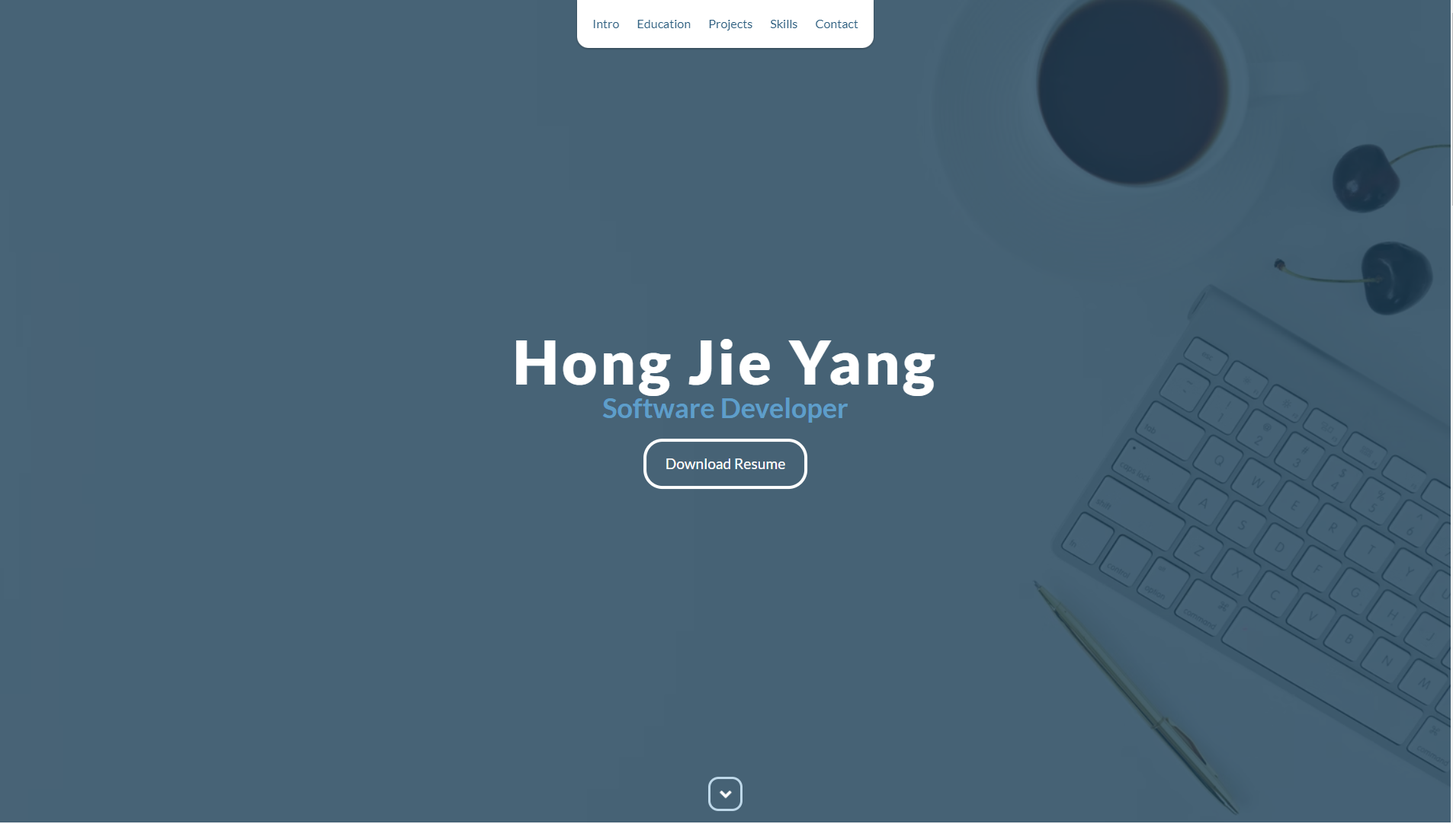
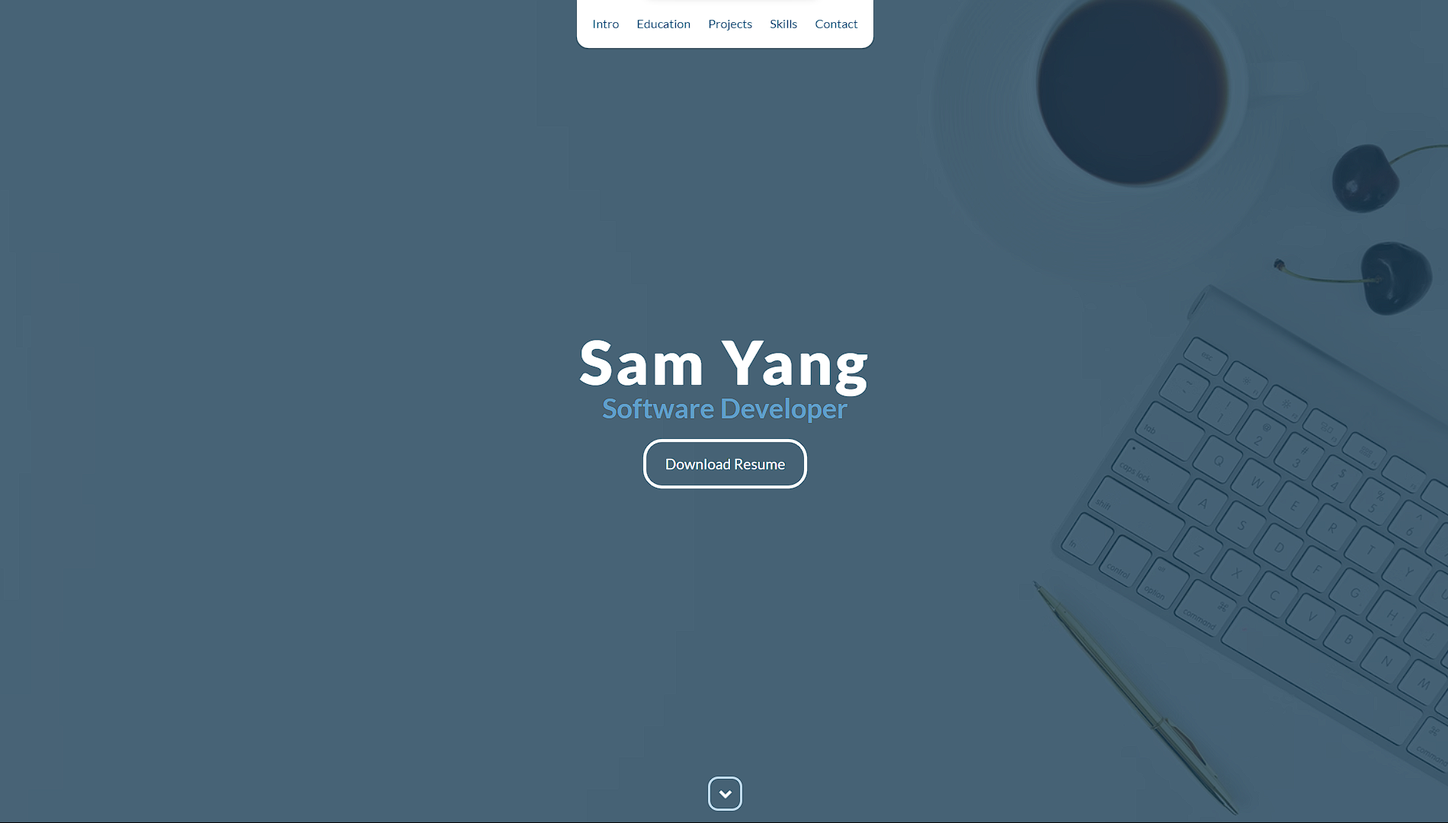
Updated Gallery and Introduction

diff --git a/css/styles.css b/css/styles.css
@@ -1,1 +1,1 @@
-body{font-family:"Lato",sans-serif;font-size:16px}body.active{overflow:hidden;z-index:-1}header{position:absolute;top:0;left:0;right:0;text-align:center;z-index:10}header ul{display:inline-block;background:#fff;text-align:center;padding:10px;margin:0;border-bottom-right-radius:15px;border-bottom-left-radius:15px}header li{display:inline-block}header a{display:block;color:#2a5c7e;padding:10px}header a:hover{color:#1d4058;text-decoration:none;background:#ccc;border-radius:10px}header a:focus{color:#2a5c7e;text-decoration:none}header.clicked{display:block}header.sticky{position:fixed;z-index:999}#mobile-menu-open{display:none;cursor:pointer;position:fixed;right:15px;top:10px;color:#2a5c7e;font-size:1.5em;z-index:20;padding:0 7px;border-radius:4px;background:#fff}#mobile-menu-close{display:none;text-align:right;width:100%;background:#fff;font-size:1.5em;padding-right:15px;padding-top:10px;cursor:pointer;color:#2a5c7e}#mobile-menu-close span{font-size:.5em;text-transform:uppercase}#mobile-menu-close i{vertical-align:middle}footer{padding:50px 0;background-color:#2a5c7e}.copyright{padding-top:20px}.copyright p{margin:0;color:#fff}.top{text-align:center}.top span{cursor:pointer;display:block;margin:0 auto;width:45px;height:45px;border-radius:30%;border:3px solid #b9bfc4;text-align:center}.top i{color:#fff;margin:10px auto}.social{text-align:right}.social ul{margin:5px 0 0 0;padding:0}.social li{display:inline-block;font-size:1.25em;list-style:none}.social a{display:block;color:#fff;padding:10px}.social a:hover{color:#2a5c7e}.btn-rounded-white{display:inline-block;color:#fff;padding:15px 25px;border:4px solid #fff;border-radius:25px;font-size:1.2em;font-weight:400;transition:0.5s ease all}.btn-rounded-white:hover{color:#2a5c7e;background:#fff;text-decoration:none}.shadow{box-shadow:0 1px 3px rgba(0,0,0,.12),0 1px 2px rgba(0,0,0,.24)}.shadow-large{box-shadow:0 3px 6px rgba(0,0,0,.08),0 3px 6px rgba(0,0,0,.15)}.heading{position:relative;display:inline-block;font-size:2em;font-weight:400;margin:0 0 30px 0}.heading:after{position:absolute;content:"";top:100%;height:2px;width:75px;left:0;right:0;margin:0 auto;background:#2a5c7e}.project{background:#f2f2f5}#lead{position:relative;height:100vh;min-height:500px;max-height:1080px;background:url(../images/bg.avif);background-size:cover;overflow:hidden}#lead-content{position:absolute;z-index:10;top:50%;left:50%;transform:translate(-50%, -50%);text-align:center}#lead-content h1,#lead-content h2{margin:0}#lead-content h1{color:#fff;font-weight:900;font-size:5em;letter-spacing:.05em;line-height:.9em}#lead-content h2{color:#5e9ec9;font-weight:700;font-size:2.25em;margin-bottom:15px}#lead-overlay{position:absolute;height:100%;width:100%;top:0;right:0;bottom:0;left:0;background:rgba(29,64,88,.8);z-index:1}@keyframes pulsate{0%{transform:scale(1, 1)}50%{transform:scale(1.2, 1.2)}100%{transform:scale(1, 1)}}#lead-down{position:absolute;left:0;right:0;width:100%;text-align:center;z-index:10;bottom:15px;color:#fff}#lead-down span{cursor:pointer;display:block;margin:0 auto;width:45px;height:45px;border-radius:30%;border:3px solid #bed8e9;text-align:center}#lead-down i{animation:pulsate 1.5s ease;animation-iteration-count:infinite;padding-top:10px}#intro{padding:75px 15px;border-bottom:1px solid #dcd9d9}#intro h2{color:#374054}#intro p{color:#74808a;margin:0}#education{padding:50px 15px 20px 15px;border-bottom:1px solid #dcd9d9;text-align:center;background-color:#f2f2f5}#education h2{color:#374054;margin-bottom:50px}.education-block{max-width:700px;margin:0 auto 30px auto;padding:15px;border:1px solid #dcd9d9;text-align:left;background-color:#fff}.education-block h3{font-weight:500;float:left;margin:0;color:#374054}.education-block span{color:#74808a;float:right}.education-block h4{color:#74808a;clear:both;font-weight:500;margin:0 0 15px 0}.education-block p,.education-block ul{margin:0;color:#74808a;font-size:.9em}.education-block ul{padding:0 0 0 15px}.row>.column{padding:0 8px}.row:after{content:"";display:table;clear:both}.modal{display:none;position:fixed;z-index:1;padding-top:100px;left:0;top:0;width:100%;height:100%;overflow:auto;background-color:rgba(0,0,0,.925)}.modal-content{position:relative;background-color:#fefefe;margin:auto;padding:0;width:90%;max-width:52vw}.close{color:#fff;position:absolute;top:10px;right:25px;font-size:35px;font-weight:bold}.close:hover,.close:focus{color:#999;text-decoration:none;cursor:pointer}.mySlides{display:none}.prev,.next{cursor:pointer;position:absolute;top:50%;width:auto;padding:16px;margin-top:-50px;color:#fff;font-weight:bold;font-size:20px;transition:.6s ease;border-radius:0 3px 3px 0;user-select:none;-webkit-user-select:none}.next{right:0;border-radius:3px 0 0 3px}.prev:hover,.next:hover{background-color:rgba(0,0,0,.8)}.numbertext{color:#f2f2f2;font-size:12px;padding:8px 12px;position:absolute;top:0}.caption-container{text-align:center;background-color:#000;padding:2px 16px;color:#fff}img.demo{opacity:.6}.active,.demo:hover{opacity:1}img.hover-shadow{transition:.3s}.hover-shadow:hover{box-shadow:0 4px 8px 0 rgba(0,0,0,.2),0 6px 20px 0 rgba(0,0,0,.19)}.thumb2{object-fit:contain;background-color:#212529}.thumb3{object-fit:contain;background-color:rgba(207,207,207,.76)}.thumb4{object-fit:contain;background-color:#f5f5f5}#thumbnailSlides1{display:none}#thumbnailSlides1 .column{float:left;width:25%}#thumbnailSlides1 .demo{max-width:100%}#thumbnailSlides2{display:none}#thumbnailSlides2 .column{float:left;width:33.33%}#thumbnailSlides2 .demo{max-width:100%}#thumbnailSlides3{display:none}#thumbnailSlides3 .column{float:left;width:33.33%}#thumbnailSlides3 .demo{max-width:100%}#thumbnailSlides4{display:none}#thumbnailSlides4 .demo{max-width:100%}#thumbnailSlides4 .column{float:left;width:33.33%}#projects{padding:50px 15px;border-bottom:1px solid #dcd9d9;text-align:center}#projects h2{color:#374054;margin-bottom:50px}.project{position:relative;max-width:1500px;margin:0 auto 30px auto;overflow:hidden;background:#fff;border-radius:4px}.project ul{display:block;margin:10px auto;padding:0;max-width:1500px}.project li{display:inline-block;margin:0px 1px;padding:5px 10px;color:#374054;background:#e4e4ea;list-style:none;cursor:default;font-size:1em}.project-image{float:left}.project-image:hover{animation:pulse 1s infinite;animation-timing-function:linear}@keyframes pulse{0%{transform:scale(1)}50%{transform:scale(1.02)}100%{transform:scale(1)}}.project-info{position:absolute;top:50%;transform:translateY(-50%);margin-left:500px;padding:15px;overflow:auto;max-height:100%}.project-info h3{font-size:1.5em;font-weight:500;color:#374054;margin:0 0 0 0}.project-info p{color:#74808a;margin:0 0 15px 0;font-size:.9em}.no-image .project-info{position:relative;margin:0;padding:30px 15px;transform:none}#more-projects{display:none}#skills{padding:50px 15px;text-align:center;background-color:#f2f2f5}#skills h2{color:#374054;margin-bottom:50px}#skills ul{display:block;margin:0 auto;padding:0;max-width:800px}#skills li{display:inline-block;margin:7px;padding:5px 10px;color:#374054;background:#e4e4ea;list-style:none;cursor:default;font-size:1.2em}#contact{padding:50px 15px;background:rgba(29,64,88,.8);text-align:center}#contact h2{margin:0 0 15px 0;color:#fff;font-weight:500}#contact-form{max-width:500px;margin:0 auto}#contact-form input,#contact-form textarea{display:block;width:100%;padding:10px;border-radius:4px;border:none;margin-bottom:10px;background:#173245;color:#fff;transition:0.5s ease all}#contact-form input::-webkit-input-placeholder,#contact-form textarea::-webkit-input-placeholder{color:#fff}#contact-form input:-moz-placeholder,#contact-form textarea:-moz-placeholder{color:#fff;opacity:1}#contact-form input::-moz-placeholder,#contact-form textarea::-moz-placeholder{color:#fff;opacity:1}#contact-form input:-ms-input-placeholder,#contact-form textarea:-ms-input-placeholder{color:#fff}#contact-form input:focus,#contact-form textarea:focus{outline:none;background:#0a161e}#contact-form textarea{height:150px;resize:none}#contact-form button{display:block;width:100%;background:#fff;border-radius:4px;padding:5px 10px;border:none;color:#2a5c7e;font-weight:700;box-shadow:0 1px 3px rgba(0,0,0,.12),0 1px 2px rgba(0,0,0,.24);transition:0.5s ease all}#contact-form button:hover{box-shadow:0 10px 20px rgba(0,0,0,.19),0 6px 6px rgba(0,0,0,.23)}@media only screen and (max-width: 992px){#lead{height:auto;min-height:auto;max-height:auto;padding:100px 15px}#lead-content{position:relative;transform:none;left:auto;top:auto}#lead-content h1{font-size:3em}#lead-content h2{font-size:1.75em}#about{text-align:center}#about p{text-align:left}}@media only screen and (max-width: 768px){header{position:fixed;display:none;z-index:999;animation:none;bottom:0;height:100%}#mobile-menu-open,#mobile-menu-close{display:block}#menu{height:100%;overflow-y:auto;box-shadow:none;border-radius:0;width:100%}#menu li{display:block;margin-bottom:10px}#lead-content h1{font-size:2em}#lead-content h2{font-size:1.3em}#lead-content a{padding:10px 20px}#lead-down{display:none}.education-block h3,.education-block span{float:none}.project-image{display:none}.project-info{position:relative;margin:0;padding:30px 15px;top:auto;transform:none}footer{text-align:center}.social{text-align:center}}@media only screen and (max-width: 480px){#lead-content h1{font-size:1.5em}#lead-content h2{font-size:1em}#lead-content a{font-size:.9em;padding:5px 10px}}
+body{font-family:"Lato",sans-serif;font-size:16px}body.active{overflow:hidden;z-index:-1}header{position:absolute;top:0;left:0;right:0;text-align:center;z-index:10}header ul{display:inline-block;background:#fff;text-align:center;padding:10px;margin:0;border-bottom-right-radius:15px;border-bottom-left-radius:15px}header li{display:inline-block}header a{display:block;color:#2a5c7e;padding:10px}header a:hover{color:#1d4058;text-decoration:none;background:#ccc;border-radius:10px}header a:focus{color:#2a5c7e;text-decoration:none}header.clicked{display:block}header.sticky{position:fixed;z-index:999}#mobile-menu-open{display:none;cursor:pointer;position:fixed;right:15px;top:10px;color:#2a5c7e;font-size:1.5em;z-index:20;padding:0 7px;border-radius:4px;background:#fff}#mobile-menu-close{display:none;text-align:right;width:100%;background:#fff;font-size:1.5em;padding-right:15px;padding-top:10px;cursor:pointer;color:#2a5c7e}#mobile-menu-close span{font-size:.5em;text-transform:uppercase}#mobile-menu-close i{vertical-align:middle}footer{padding:50px 0;background-color:#2a5c7e}.copyright{padding-top:20px}.copyright p{margin:0;color:#fff}.top{text-align:center}.top span{cursor:pointer;display:block;margin:0 auto;width:45px;height:45px;border-radius:30%;border:3px solid #b9bfc4;text-align:center}.top i{color:#fff;margin:10px auto}.social{text-align:right}.social ul{margin:5px 0 0 0;padding:0}.social li{display:inline-block;font-size:1.25em;list-style:none}.social a{display:block;color:#fff;padding:10px}.social a:hover{color:#2a5c7e}.btn-rounded-white{display:inline-block;color:#fff;padding:15px 25px;border:4px solid #fff;border-radius:25px;font-size:1.2em;font-weight:400;transition:0.5s ease all}.btn-rounded-white:hover{color:#2a5c7e;background:#fff;text-decoration:none}.shadow{box-shadow:0 1px 3px rgba(0,0,0,.12),0 1px 2px rgba(0,0,0,.24)}.shadow-large{box-shadow:0 3px 6px rgba(0,0,0,.08),0 3px 6px rgba(0,0,0,.15)}.heading{position:relative;display:inline-block;font-size:2em;font-weight:400;margin:0 0 30px 0}.heading:after{position:absolute;content:"";top:100%;height:2px;width:75px;left:0;right:0;margin:0 auto;background:#2a5c7e}.project{background:#f2f2f5}#lead{position:relative;height:100vh;min-height:500px;max-height:1080px;background:url(../images/bg.avif);background-size:cover;overflow:hidden}#lead-content{position:absolute;z-index:10;top:50%;left:50%;transform:translate(-50%, -50%);text-align:center}#lead-content h1,#lead-content h2{margin:0}#lead-content h1{color:#fff;font-weight:900;font-size:5em;letter-spacing:.05em;line-height:.9em}#lead-content h2{color:#5e9ec9;font-weight:700;font-size:2.25em;margin-bottom:15px}#lead-overlay{position:absolute;height:100%;width:100%;top:0;right:0;bottom:0;left:0;background:rgba(29,64,88,.8);z-index:1}@keyframes pulsate{0%{transform:scale(1, 1)}50%{transform:scale(1.2, 1.2)}100%{transform:scale(1, 1)}}#lead-down{position:absolute;left:0;right:0;width:100%;text-align:center;z-index:10;bottom:15px;color:#fff}#lead-down span{cursor:pointer;display:block;margin:0 auto;width:45px;height:45px;border-radius:30%;border:3px solid #bed8e9;text-align:center}#lead-down i{animation:pulsate 1.5s ease;animation-iteration-count:infinite;padding-top:10px}#intro{padding:75px 15px;border-bottom:1px solid #dcd9d9}#intro h2{color:#374054}#intro p{color:#74808a;margin:0}#education{padding:50px 15px 20px 15px;border-bottom:1px solid #dcd9d9;text-align:center;background-color:#f2f2f5}#education h2{color:#374054;margin-bottom:50px}.education-block{max-width:700px;margin:0 auto 30px auto;padding:15px;border:1px solid #dcd9d9;text-align:left;background-color:#fff}.education-block h3{font-weight:500;float:left;margin:0;color:#374054}.education-block span{color:#74808a;float:right}.education-block h4{color:#74808a;clear:both;font-weight:500;margin:0 0 15px 0}.education-block p,.education-block ul{margin:0;color:#74808a;font-size:.9em}.education-block ul{padding:0 0 0 15px}.row>.column{padding:0 8px}.row:after{content:"";display:table;clear:both}.modal{display:none;position:fixed;z-index:1;left:0;top:0;width:100%;height:100%;overflow:auto;background-color:rgba(0,0,0,.925);align-items:center;justify-content:center}.modal-content{position:relative;background-color:#fefefe;margin:auto;padding:0;width:90%;max-width:52vw}.close{color:#fff;position:absolute;top:10px;right:25px;font-size:35px;font-weight:bold}.close:hover,.close:focus{color:#999;text-decoration:none;cursor:pointer}.mySlides{display:none}.prev,.next{cursor:pointer;position:absolute;top:50%;width:auto;padding:16px;margin-top:-50px;color:#fff;font-weight:bold;font-size:20px;transition:.6s ease;border-radius:0 3px 3px 0;user-select:none;-webkit-user-select:none}.next{right:0;border-radius:3px 0 0 3px}.prev:hover,.next:hover{background-color:rgba(0,0,0,.8)}.numbertext{color:#f2f2f2;font-size:12px;padding:8px 12px;position:absolute;top:0}.caption-container{text-align:center;background-color:#000;padding:2px 16px;color:#fff}img.demo{opacity:.8}.active,.demo:hover{opacity:1}img.hover-shadow{transition:.3s}.hover-shadow:hover{box-shadow:0 4px 8px 0 rgba(0,0,0,.2),0 6px 20px 0 rgba(0,0,0,.19)}.thumb2{object-fit:contain;background-color:#212529}.thumb3{object-fit:contain;background-color:rgba(207,207,207,.76)}.thumb4{object-fit:contain;background-color:#f5f5f5}.thumb5{object-fit:contain;background-color:#0d1b2a}#thumbnailSlides1{display:none}#thumbnailSlides1 .column{float:left;width:25%}#thumbnailSlides1 .demo{max-width:100%}#thumbnailSlides2{display:none}#thumbnailSlides2 .column{float:left;width:33.33%}#thumbnailSlides2 .demo{max-width:100%}#thumbnailSlides3{display:none}#thumbnailSlides3 .column{float:left;width:33.33%}#thumbnailSlides3 .demo{max-width:100%}#thumbnailSlides5{display:none}#thumbnailSlides5 .demo{max-width:100%}#thumbnailSlides5 .column{float:left;width:25%;object-fit:contain}#projects{padding:50px 15px;border-bottom:1px solid #dcd9d9;text-align:center}#projects h2{color:#374054;margin-bottom:50px}.project{position:relative;max-width:1500px;margin:0 auto 30px auto;overflow:hidden;background:#fff;border-radius:4px}.project ul{display:block;margin:10px auto;padding:0;max-width:1500px}.project li{display:inline-block;margin:0px 1px;padding:5px 10px;color:#374054;background:#e4e4ea;list-style:none;cursor:default;font-size:1em}.project-image{float:left}.project-image:hover{animation:pulse 1s infinite;animation-timing-function:linear}@keyframes pulse{0%{transform:scale(1)}50%{transform:scale(1.02)}100%{transform:scale(1)}}.project-info{position:absolute;top:50%;transform:translateY(-50%);margin-left:500px;padding:15px;overflow:auto;max-height:100%}.project-info h3{font-size:1.5em;font-weight:500;color:#374054;margin:0 0 0 0}.project-info p{color:#74808a;margin:0 0 15px 0;font-size:.9em}.no-image .project-info{position:relative;margin:0;padding:30px 15px;transform:none}#more-projects{display:none}#skills{padding:50px 15px;text-align:center;background-color:#f2f2f5}#skills h2{color:#374054;margin-bottom:50px}#skills ul{display:block;margin:0 auto;padding:0;max-width:800px}#skills li{display:inline-block;margin:7px;padding:5px 10px;color:#374054;background:#e4e4ea;list-style:none;cursor:default;font-size:1.2em}#contact{padding:50px 15px;background:rgba(29,64,88,.8);text-align:center}#contact h2{margin:0 0 15px 0;color:#fff;font-weight:500}#contact-form{max-width:500px;margin:0 auto}#contact-form input,#contact-form textarea{display:block;width:100%;padding:10px;border-radius:4px;border:none;margin-bottom:10px;background:#173245;color:#fff;transition:0.5s ease all}#contact-form input::-webkit-input-placeholder,#contact-form textarea::-webkit-input-placeholder{color:#fff}#contact-form input:-moz-placeholder,#contact-form textarea:-moz-placeholder{color:#fff;opacity:1}#contact-form input::-moz-placeholder,#contact-form textarea::-moz-placeholder{color:#fff;opacity:1}#contact-form input:-ms-input-placeholder,#contact-form textarea:-ms-input-placeholder{color:#fff}#contact-form input:focus,#contact-form textarea:focus{outline:none;background:#0a161e}#contact-form textarea{height:150px;resize:none}#contact-form button{display:block;width:100%;background:#fff;border-radius:4px;padding:5px 10px;border:none;color:#2a5c7e;font-weight:700;box-shadow:0 1px 3px rgba(0,0,0,.12),0 1px 2px rgba(0,0,0,.24);transition:0.5s ease all}#contact-form button:hover{box-shadow:0 10px 20px rgba(0,0,0,.19),0 6px 6px rgba(0,0,0,.23)}@media only screen and (max-width: 992px){#lead{height:auto;min-height:auto;max-height:auto;padding:100px 15px}#lead-content{position:relative;transform:none;left:auto;top:auto}#lead-content h1{font-size:3em}#lead-content h2{font-size:1.75em}#about{text-align:center}#about p{text-align:left}}@media only screen and (max-width: 768px){header{position:fixed;display:none;z-index:999;animation:none;bottom:0;height:100%}#mobile-menu-open,#mobile-menu-close{display:block}#menu{height:100%;overflow-y:auto;box-shadow:none;border-radius:0;width:100%}#menu li{display:block;margin-bottom:10px}#lead-content h1{font-size:2em}#lead-content h2{font-size:1.3em}#lead-content a{padding:10px 20px}#lead-down{display:none}.education-block h3,.education-block span{float:none}.project-image{display:none}.project-info{position:relative;margin:0;padding:30px 15px;top:auto;transform:none}footer{text-align:center}.social{text-align:center}}@media only screen and (max-width: 480px){#lead-content h1{font-size:1.5em}#lead-content h2{font-size:1em}#lead-content a{font-size:.9em;padding:5px 10px}}

diff --git a/index.html b/index.html
@@ -76,17 +76,17 @@
                     </div>
                     <div class="col-md-8">
                         <p>
-                            Welcome to my website portfolio. I'm a graduate who has applied knowledge
-                            gained from my education into practical projects showcased via this website.
+                            Welcome to my website portfolio. I am current seeking CO-OP opportunties for
+                            2024 Summer.  Below you can see a couple of my projects I've made in a gallery.
                             
                             <br></br>
-                            My main programming language of choice is Python. 
-                            I have familarized myself with CSS, HTML,
-                            Javascript for designing front-end applications. Finally, I am proficient in data extraction,
-                            modelling and classification, especially for the development of machine learning models. 
+                            I am currently focusing on being a full stack developer, with a focus on ReactJS front-end
+                            and a combination of Javascript, ExpressJS and SQL and NoSQL databases for the back-end. Other 
+                            programming languages that I am familar with include Python, MATLAB, and a bit of C# (.NET) and Java. 
 
                             <br></br>
-                            If you have any inquries you can contact me at <b>HongJYang9403@gmail.com</b> or use the contact form below.
+                            If you have any inquries you can contact me at <b>y2896899063@gmail.com</b> or <b>syang5045@conestogac.on.ca</b> 
+                            directly or use the contact form below.
                         </p>
                     </div>
                 </div>
@@ -97,6 +97,19 @@
         <!-- Education Section -->
         <div id="education">
             <h2 class="heading">Education</h2>
+            <div class="education-block">
+                <h3><b>Conestoga College</b></h3>
+                <span class="education-date">2023 - Present</span>
+                <h4><b>Computer Application Developer (4.0 GPA)</b></h4>
+                <h4><b>Relevant Coursework</b></h4>
+                <ul>
+                    <li>Agile Development Course (A+)</li>
+                    <li>Javascript, jQuery with MongoDB (A+)</li>
+                    <li>Database with SQL (A+)</li>
+                    <li>HTML CSS Frontend Design (A+)</li>
+                </ul>
+            </div>
+
             <div class="education-block">
                 <h3><b>McMaster University</b></h3>
                 <span class="education-date">2016 - 2021</span>
@@ -109,6 +122,7 @@
                 </ul>
             </div>
         </div>
+        
         <!-- End of Education Section -->
         
         <!-- Lightbox Gallery -->
@@ -174,6 +188,28 @@
                     </div>
                 </div>
 
+                <div id="gallery5">
+                    <div class="mySlides">
+                        <div class="numbertext">1 / 4</div>
+                        <img src="images/gallery5/image1.png" style="width:100%">
+                    </div>
+
+                    <div class="mySlides">
+                        <div class="numbertext">2 / 4</div>
+                        <img src="images/gallery5/image2.png" style="width:100%">
+                    </div>
+
+                    <div class="mySlides">
+                        <div class="numbertext">3 / 4</div>
+                        <img src="images/gallery5/image3.png" style="width:100%">
+                    </div>
+
+                    <div class="mySlides">
+                        <div class="numbertext">4 / 4</div>
+                        <img src="images/gallery5/image4.png" style="width:100%">
+                    </div>
+                </div>
+
                 <!-- Next / Previous Controls -->
                 <a class="prev" onclick="plusSlides(-1)">&#10094;</a>
                 <a class="next" onclick="plusSlides(1)">&#10095;</a>
@@ -182,7 +218,8 @@
                 <div class="caption-container">
                     <p id="caption"></p>
                 </div>
-    
+
+
                 <!-- Thumbnail Controls Project 1 -->
                 <div id="thumbnailSlides1" class="thumbnails">
                     <div class="column">
@@ -231,6 +268,25 @@
                         <img class="demo" src="images/gallery3/processed_data.png" onclick="currentSlide(3)" alt="Processed Data of SCG and ECG Waveform">
                     </div>
                 </div>
+
+                <!-- Thumbnail Controls Project 5 -->
+                <div id="thumbnailSlides5" class="thumbnails">
+                    <div class="column">
+                        <img class="demo" src="images/gallery5/image1.png" onclick="currentSlide(1)" alt="Brick Veneer Gallery">
+                    </div>
+
+                    <div class="column">
+                        <img class="demo" src="images/gallery5/image2.png" onclick="currentSlide(2)" alt="Website Logo">
+                    </div>
+
+                    <div class="column">
+                        <img class="demo" src="images/gallery5/image3.png" onclick="currentSlide(3)" alt="Brick Veneer Selector Lightbox">
+                    </div>
+
+                    <div class="column">
+                        <img class="demo" src="images/gallery5/image4.png" onclick="currentSlide(4)" alt="Website Checkout Page">
+                    </div>
+                </div>
             </div>
         </div>
         <!-- End of Lighbox Gallery -->
@@ -240,6 +296,32 @@
             <h2 class="heading">Projects</h2>
             <div class="container">
                 <div class="row">
+                    <div class="project shadow-large">
+
+                        <!-- Image -->
+                        <div class="project-image">
+                            <img src="images/gallery5/image1.png" width="480" height="360" class="thumb5" onclick="openModal(5)"/>
+                        </div>
+
+                        <!-- Project Information -->
+                        <div class="project-info">
+                            <h3>3Y Brick Veneer Site</h3>
+                            <ul>
+                                <li>ReactJS</li>
+                                <li>MongoDB</li>
+                                <li>ExpressJS</li>
+                                <li>HTML</li>
+                                <li>CSS</li>
+                            </ul>
+                            <p>
+                                This application is a full-stack website used to help sell my family's brick veneer. It was made using ReactJS front-end
+                                and MongoDB and Express backend. The frontend, the backend, and database server are all hosted online. The stock and 
+                                quotes for orders are sent to and retrieved from the database. 
+                            </p>
+                            <a href="https://github.com/Samyuul/3Y-Brick-Veneer-Site" target="_blank">View Source Code</a>
+                        </div>
+                    </div>
+
                     <div class="project shadow-large">
 
                         <!-- Image -->
@@ -257,7 +339,7 @@
                             </ul>
                             <p>
                                 This application is a real-time webcam predictor for age, gender, and emotions. It leverages existing neural network architecture Vgg16 to 
-                                achieve accuracies of 78.77% (96.01% one off accuracy) for age, 94.85% for gender, and 64.44% for emotions.
+                                achieve accuracies of 78.77% (96.01% one off accuracy) for age, 94.85% for gender, and 64.44% for emotions. (Documentation Available)
                             </p>
                             <a href="https://github.com/HongJieYang/AgeGenderEmotionDetector" target="_blank">View Source Code</a>
                         </div>
@@ -283,6 +365,7 @@
                             <p>
                                 This application scrapes the frontpage of CBC, The Guardian, NBS, and CBS for articles. It then provides a summary of the article using an 
                                 extractive algorithm alongside a list of corresponding keywords. Furthermore, you can filter the articles based on 5 different categories.
+                                (Documentation Available)
                             </p>
                             <a href="https://github.com/HongJieYang/ArticleSummarizerApplication" target="_blank">View Source Code</a>
                         </div>
@@ -343,17 +426,22 @@
         <div id="skills">
             <h2 class="heading">Skills</h2>
             <ul>
+                <li>ReactJS</li>
                 <li>JavaScript</li>
-                <li>Java</li>
                 <li>Embedded C</li>
                 <li>MATLAB</li>
                 <li>MySQL</li>
+                <li>MongoDB</li>
                 <li>Python</li>
                 <li>jQuery</li>
                 <li>OpenCV</li>
                 <li>Keras</li>
                 <li>Dash Plotly</li> 
                 <li>Beautiful Soup</li>
+                <li>Java</li>
+                <li>Office</li>
+                <li>C#</li>
+                <li>.NET</li>
             </ul>
         </div>
         <!-- End of Skills Section -->
@@ -389,10 +477,10 @@
                     <div class="col-sm-5 social">
                         <ul>
                             <li>
-                                <a href="https://github.com/HongJieYang" target="_blank"><i class="fa fa-github" aria-hidden="true"></i></a>
+                                <a href="https://github.com/Samyuul/" target="_blank"><i class="fa fa-github" aria-hidden="true"></i></a>
                             </li>
                             <li>
-                                <a href="https://linkedin.com/in/HongJYang940f" target="_blank"><i class="fa fa-linkedin" aria-hidden="true"></i></a>
+                                <a href="https://www.linkedin.com/in/samyang9063/" target="_blank"><i class="fa fa-linkedin" aria-hidden="true"></i></a>
                             </li>
                         </ul>
                     </div>

diff --git a/js/scripts.min.js b/js/scripts.min.js
@@ -1,1 +1,1 @@
-var slideIndex=1,projectSelect=0,viewWidths=["42vw","52vw","45vw","50vw"];function openModal(e){slideIndex=1,document.getElementById("myModal").style.display="block",document.getElementById("nav-header").style.zIndex=-10;var t="thumbnailSlides"+(projectSelect=e).toString();document.getElementById(t).style.display="inline",document.body.style.overflow="hidden",document.getElementsByClassName("modal-content")[0].style.maxWidth=viewWidths[e-1],showSlides(slideIndex)}function closeModal(){document.getElementById("myModal").style.display="none",document.getElementById("nav-header").style.zIndex=10;var e="thumbnailSlides"+projectSelect.toString();document.getElementById(e).style.display="none";var t="gallery"+projectSelect.toString(),l=document.getElementById(t).getElementsByClassName("mySlides");for(i=0;i<l.length;i++)l[i].style.display="none";document.body.style.overflow="visible"}function plusSlides(e){showSlides(slideIndex+=e)}function currentSlide(e){showSlides(slideIndex=e)}function showSlides(e){var t,l="gallery"+projectSelect.toString(),n=document.getElementById(l).getElementsByClassName("mySlides"),d="thumbnailSlides"+projectSelect.toString(),o=document.getElementById(d).getElementsByClassName("demo"),s=document.getElementById("caption");for(e>n.length&&(slideIndex=1),e<1&&(slideIndex=n.length),t=0;t<n.length;t++)n[t].style.display="none";for(t=0;t<o.length;t++)o[t].className=o[t].className.replace(" active","");n[slideIndex-1].style.display="block",o[slideIndex-1].className+=" active",s.innerHTML=o[slideIndex-1].alt}!function(n){n("html").removeClass("no-js"),n("#current-year").text((new Date).getFullYear()),n("header a").click(function(e){e.preventDefault();var t=n(this).attr("href"),l=n(t).offset().top-50;n("html, body").animate({scrollTop:l+"px"},Math.abs(l/1.5)),n("header").hasClass("clicked")&&n("header, body").removeClass("clicked")}),n("#to-top").click(function(){n("html, body").animate({scrollTop:0},Math.abs(window.pageYOffset))}),n("#lead-down span").click(function(){var e=n("#lead").next().offset().top;n("html, body").animate({scrollTop:e+"px"},300)}),n("#mobile-menu-open").click(function(){n("header, body").addClass("clicked")}),n("#mobile-menu-close").click(function(){n("header, body").removeClass("clicked")})}(jQuery);
+var slideIndex=1,projectSelect=0,viewWidths=["42vw","52vw","45vw",0,"52vw"];function openModal(e){slideIndex=1,document.getElementById("myModal").style.display="flex",document.getElementById("nav-header").style.zIndex=-10;var t="thumbnailSlides"+(projectSelect=e).toString();document.getElementById(t).style.display="inline",document.body.style.overflow="hidden",document.getElementsByClassName("modal-content")[0].style.maxWidth=viewWidths[e-1],showSlides(slideIndex)}function closeModal(){document.getElementById("myModal").style.display="none",document.getElementById("nav-header").style.zIndex=10;var e="thumbnailSlides"+projectSelect.toString();document.getElementById(e).style.display="none";var t="gallery"+projectSelect.toString(),l=document.getElementById(t).getElementsByClassName("mySlides");for(i=0;i<l.length;i++)l[i].style.display="none";document.body.style.overflow="visible"}function plusSlides(e){showSlides(slideIndex+=e)}function currentSlide(e){showSlides(slideIndex=e)}function showSlides(e){var t,l="gallery"+projectSelect.toString(),n=document.getElementById(l).getElementsByClassName("mySlides"),d="thumbnailSlides"+projectSelect.toString(),o=document.getElementById(d).getElementsByClassName("demo"),s=document.getElementById("caption");for(e>n.length&&(slideIndex=1),e<1&&(slideIndex=n.length),t=0;t<n.length;t++)n[t].style.display="none";for(t=0;t<o.length;t++)o[t].className=o[t].className.replace(" active","");n[slideIndex-1].style.display="block",o[slideIndex-1].className+=" active",s.innerHTML=o[slideIndex-1].alt}!function(n){n("html").removeClass("no-js"),n("#current-year").text((new Date).getFullYear()),n("header a").click(function(e){e.preventDefault();var t=n(this).attr("href"),l=n(t).offset().top-50;n("html, body").animate({scrollTop:l+"px"},Math.abs(l/1.5)),n("header").hasClass("clicked")&&n("header, body").removeClass("clicked")}),n("#to-top").click(function(){n("html, body").animate({scrollTop:0},Math.abs(window.pageYOffset))}),n("#lead-down span").click(function(){var e=n("#lead").next().offset().top;n("html, body").animate({scrollTop:e+"px"},300)}),n("#mobile-menu-open").click(function(){n("header, body").addClass("clicked")}),n("#mobile-menu-close").click(function(){n("header, body").removeClass("clicked")})}(jQuery);

diff --git a/scss/styles.scss b/scss/styles.scss
@@ -459,13 +459,15 @@ footer {
     display: none;
     position: fixed;
     z-index: 1;
-    padding-top: 100px;
     left: 0;
     top: 0;
     width: 100%;
     height: 100%;
     overflow: auto;
     background-color: rgba(0, 0, 0, 0.925);
+
+    align-items: center;
+    justify-content: center;
 }
 
 /* Modal Content */
@@ -548,7 +550,7 @@ footer {
 }
 
 img.demo {
-    opacity: 0.6;
+    opacity: 0.8;
 }
 
 .active,
@@ -578,6 +580,11 @@ img.hover-shadow {
 .thumb4{
     object-fit: contain;
     background-color: rgb(245, 245, 245);
+}
+
+.thumb5{
+    object-fit: contain;
+    background-color: #0d1b2a;
 }
 
 // Thumbnail gallery
@@ -624,17 +631,18 @@ img.hover-shadow {
     }
 }
 
-#thumbnailSlides4 {
+#thumbnailSlides5 {
     display: none;
 
     .demo {
         max-width: 100%;
     }
 
-    // 3 Columns next to each other
+    // 4 Columns next to each other
     .column {
         float: left;
-        width: 33.33%;
+        width: 25.00%;
+        object-fit: contain;
     }
 }
 

diff --git a/js/scripts.js b/js/scripts.js
@@ -1,14 +1,14 @@
 // Global variables
 var slideIndex = 1; 
 var projectSelect = 0;
-var viewWidths = ['42vw', '52vw', '45vw', '50vw']
+var viewWidths = ['42vw', '52vw', '45vw', 0, '52vw'];
 
 // Open lightbox gallery
 function openModal(n) {
     slideIndex = 1
 
     // Hide header
-    document.getElementById("myModal").style.display = "block";
+    document.getElementById("myModal").style.display = "flex";
     document.getElementById("nav-header").style.zIndex = -10;
 
     projectSelect = n;
@@ -19,7 +19,7 @@ function openModal(n) {
 
     document.body.style.overflow = "hidden";
     document.getElementsByClassName("modal-content")[0].style.maxWidth = viewWidths[n - 1];
-    showSlides(slideIndex)
+    showSlides(slideIndex);
 }
 
 // Close lightbox gallery
@@ -41,7 +41,7 @@ function closeModal() {
         slides[i].style.display = "none";
     }
 
-    document.body.style.overflow = "visible"
+    document.body.style.overflow = "visible";
 }
 
 // Next/previous controls
